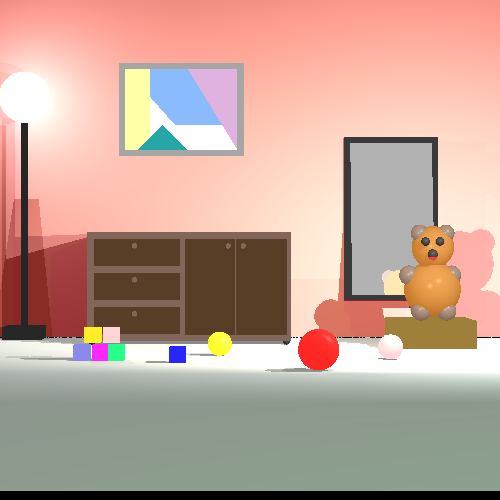
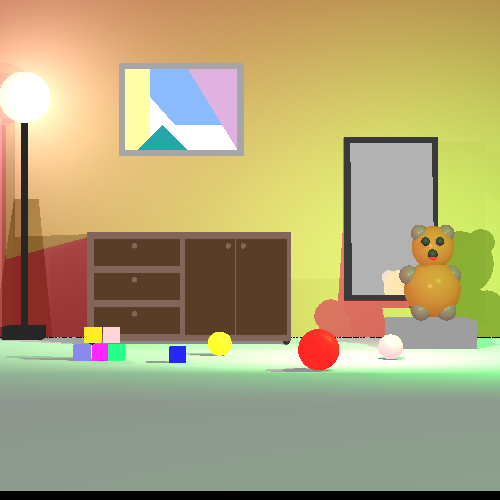
continue new MP2

diff --git a/unitTests/finalProject/finalProjects.java b/unitTests/finalProject/finalProjects.java
@@ -363,7 +363,7 @@ public class finalProjects {
                                 .setKs(0.7)
                                 .setShininess(30)),
 
-                new Cuboid(new Point(100, -50, 30), 60, 20, 50, new Color(120,90,20)),
+                new Cuboid(new Point(100, -50, 30), 60, 20, 50, new Color(120,120,120)),//little chair
 
                 new Sphere(20, new Point(130, -28, 20))//body
                         .setEmission(new Color(150, 75, 0))
@@ -442,7 +442,7 @@ public class finalProjects {
 
         scene.lights.add(new SpotLight(new Color(245, 222, 179), new Point(75, 20, 200), new Vector(0, -1, -4))
                 .setKl(4E-4).setKq(2E-5));
-        scene.lights.add(new SpotLight(new Color(200,200,200), new Point(200,100, 200), new Vector(0, -1,-1))
+        scene.lights.add(new SpotLight(new Color(0,200,20), new Point(200,100, 200), new Vector(0, -1,-1))
                 .setKl(4E-4).setKq(2E-6));
         scene.lights.add(new SpotLight(new Color(10, 222,20), new Point(350, 200, 1000), new Vector(-0.5, -0.75,-1))
                 .setKl(4E-4).setKq(2E-5));
